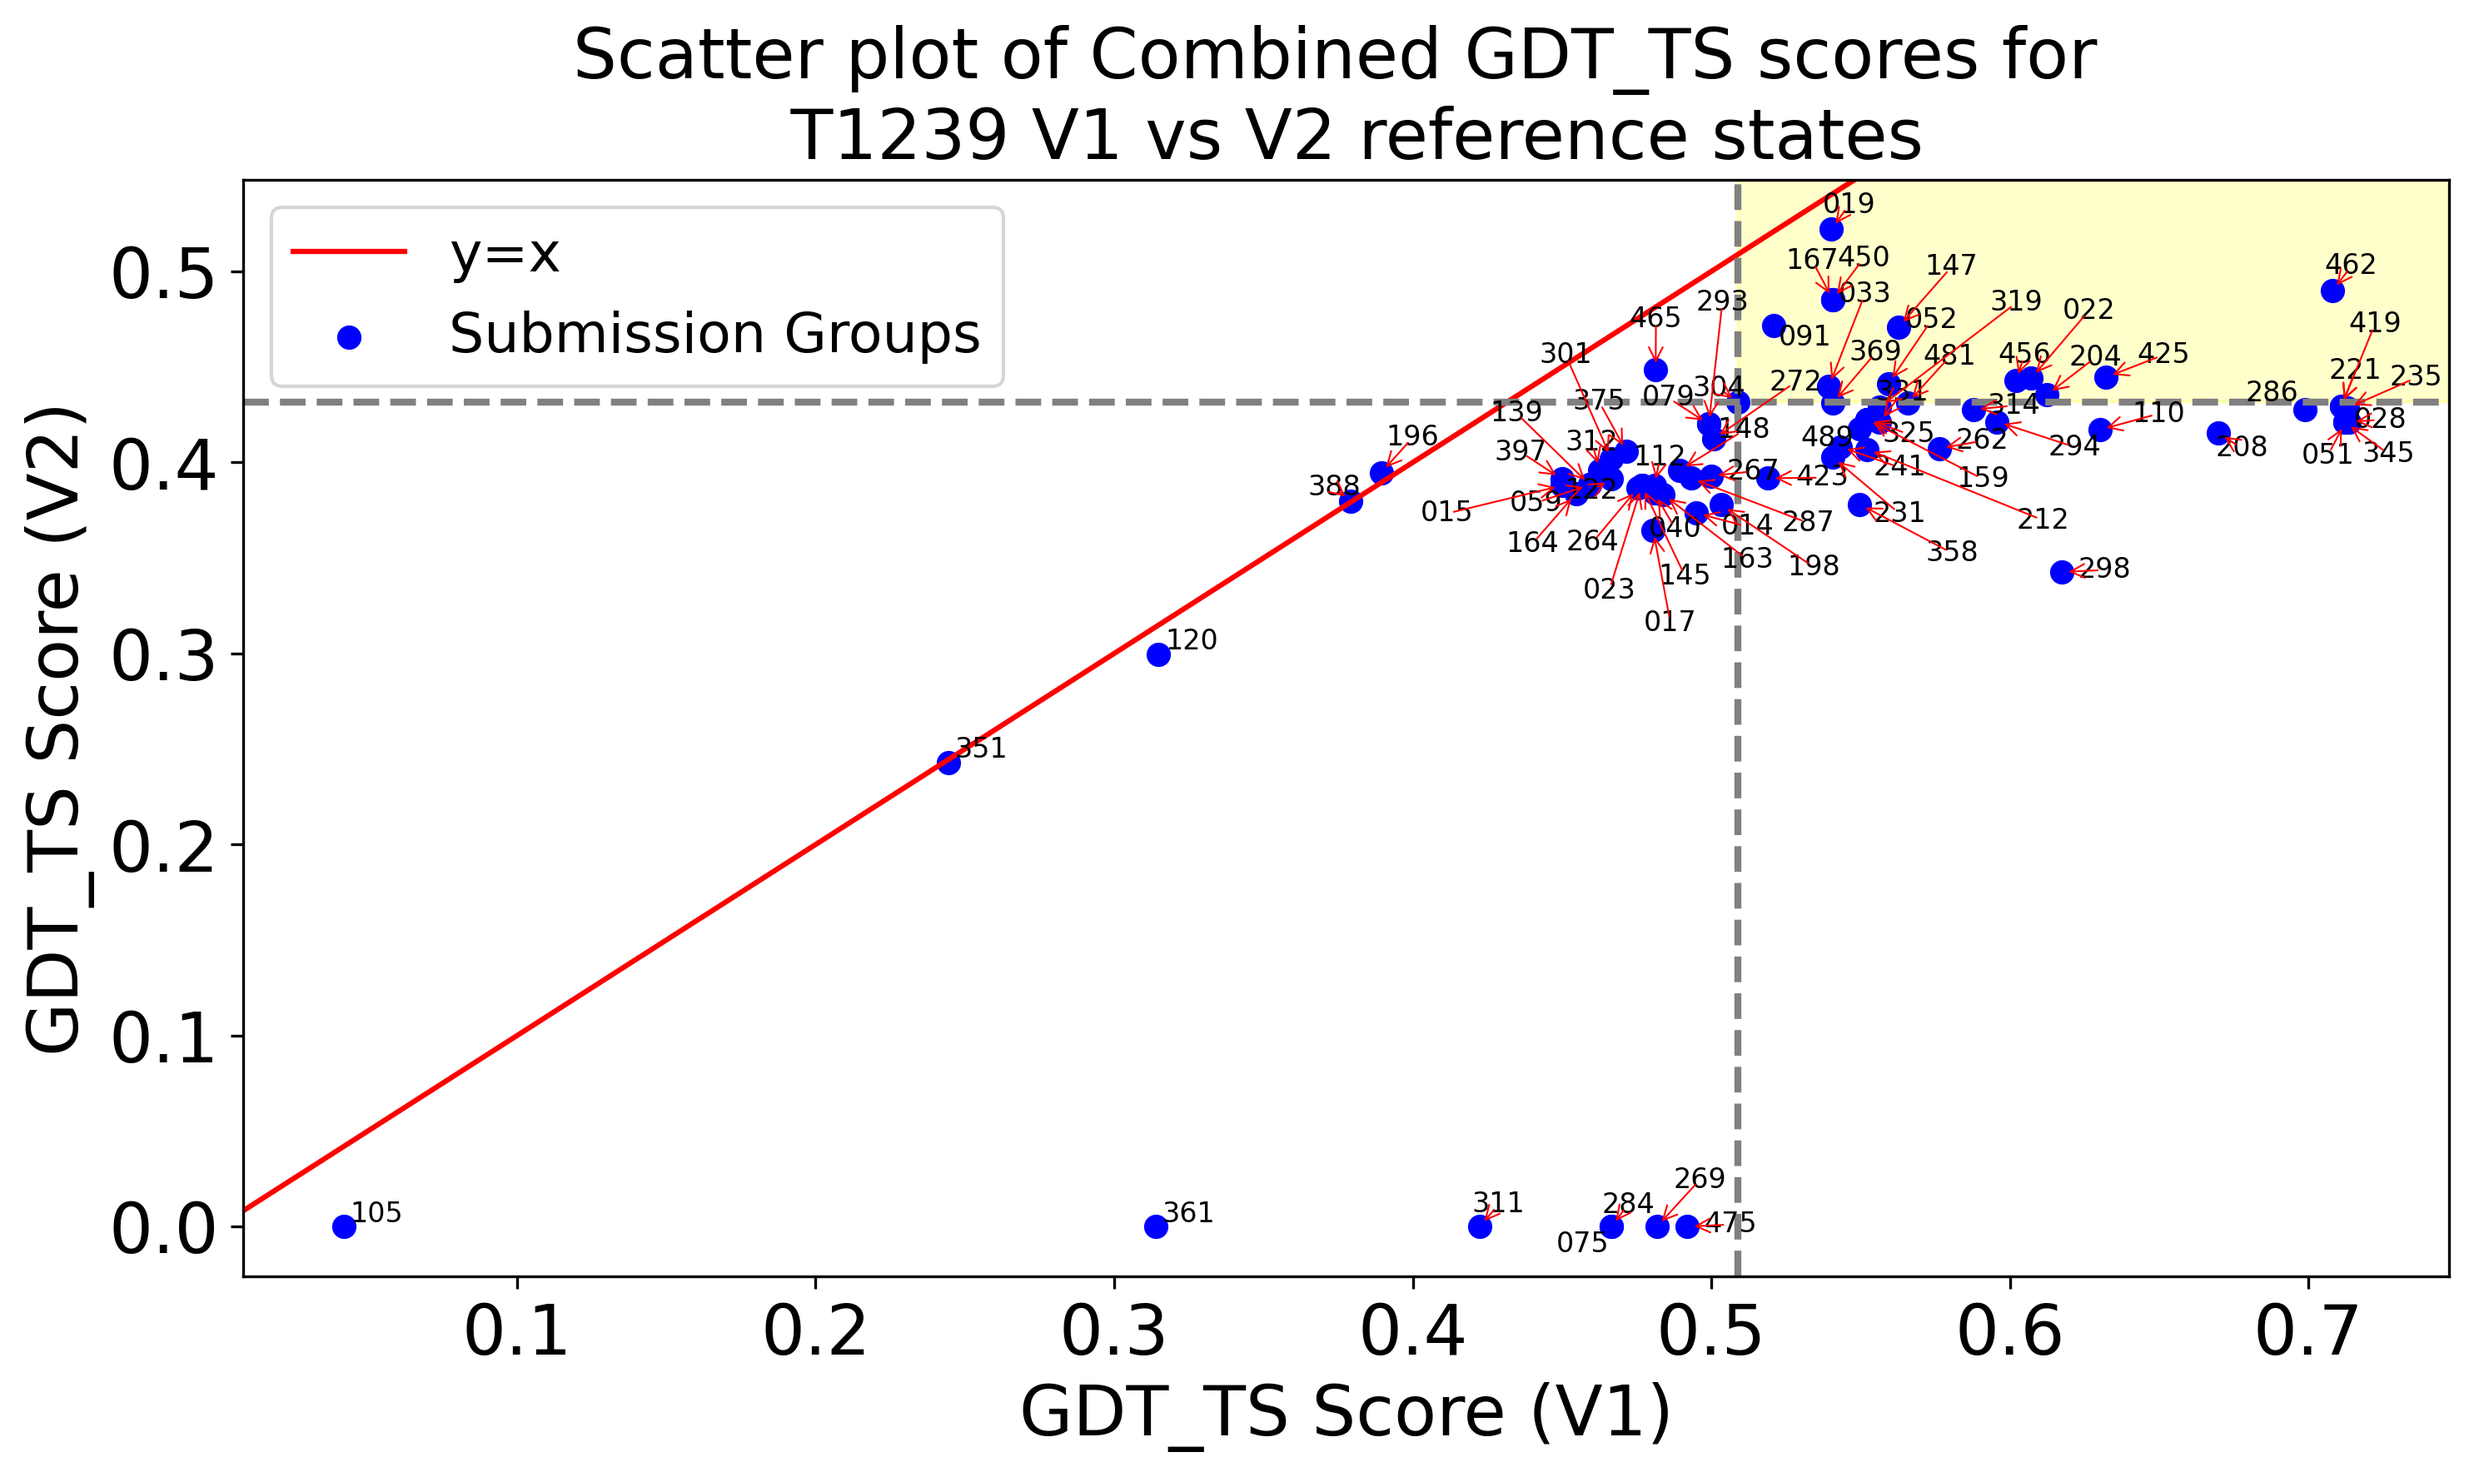
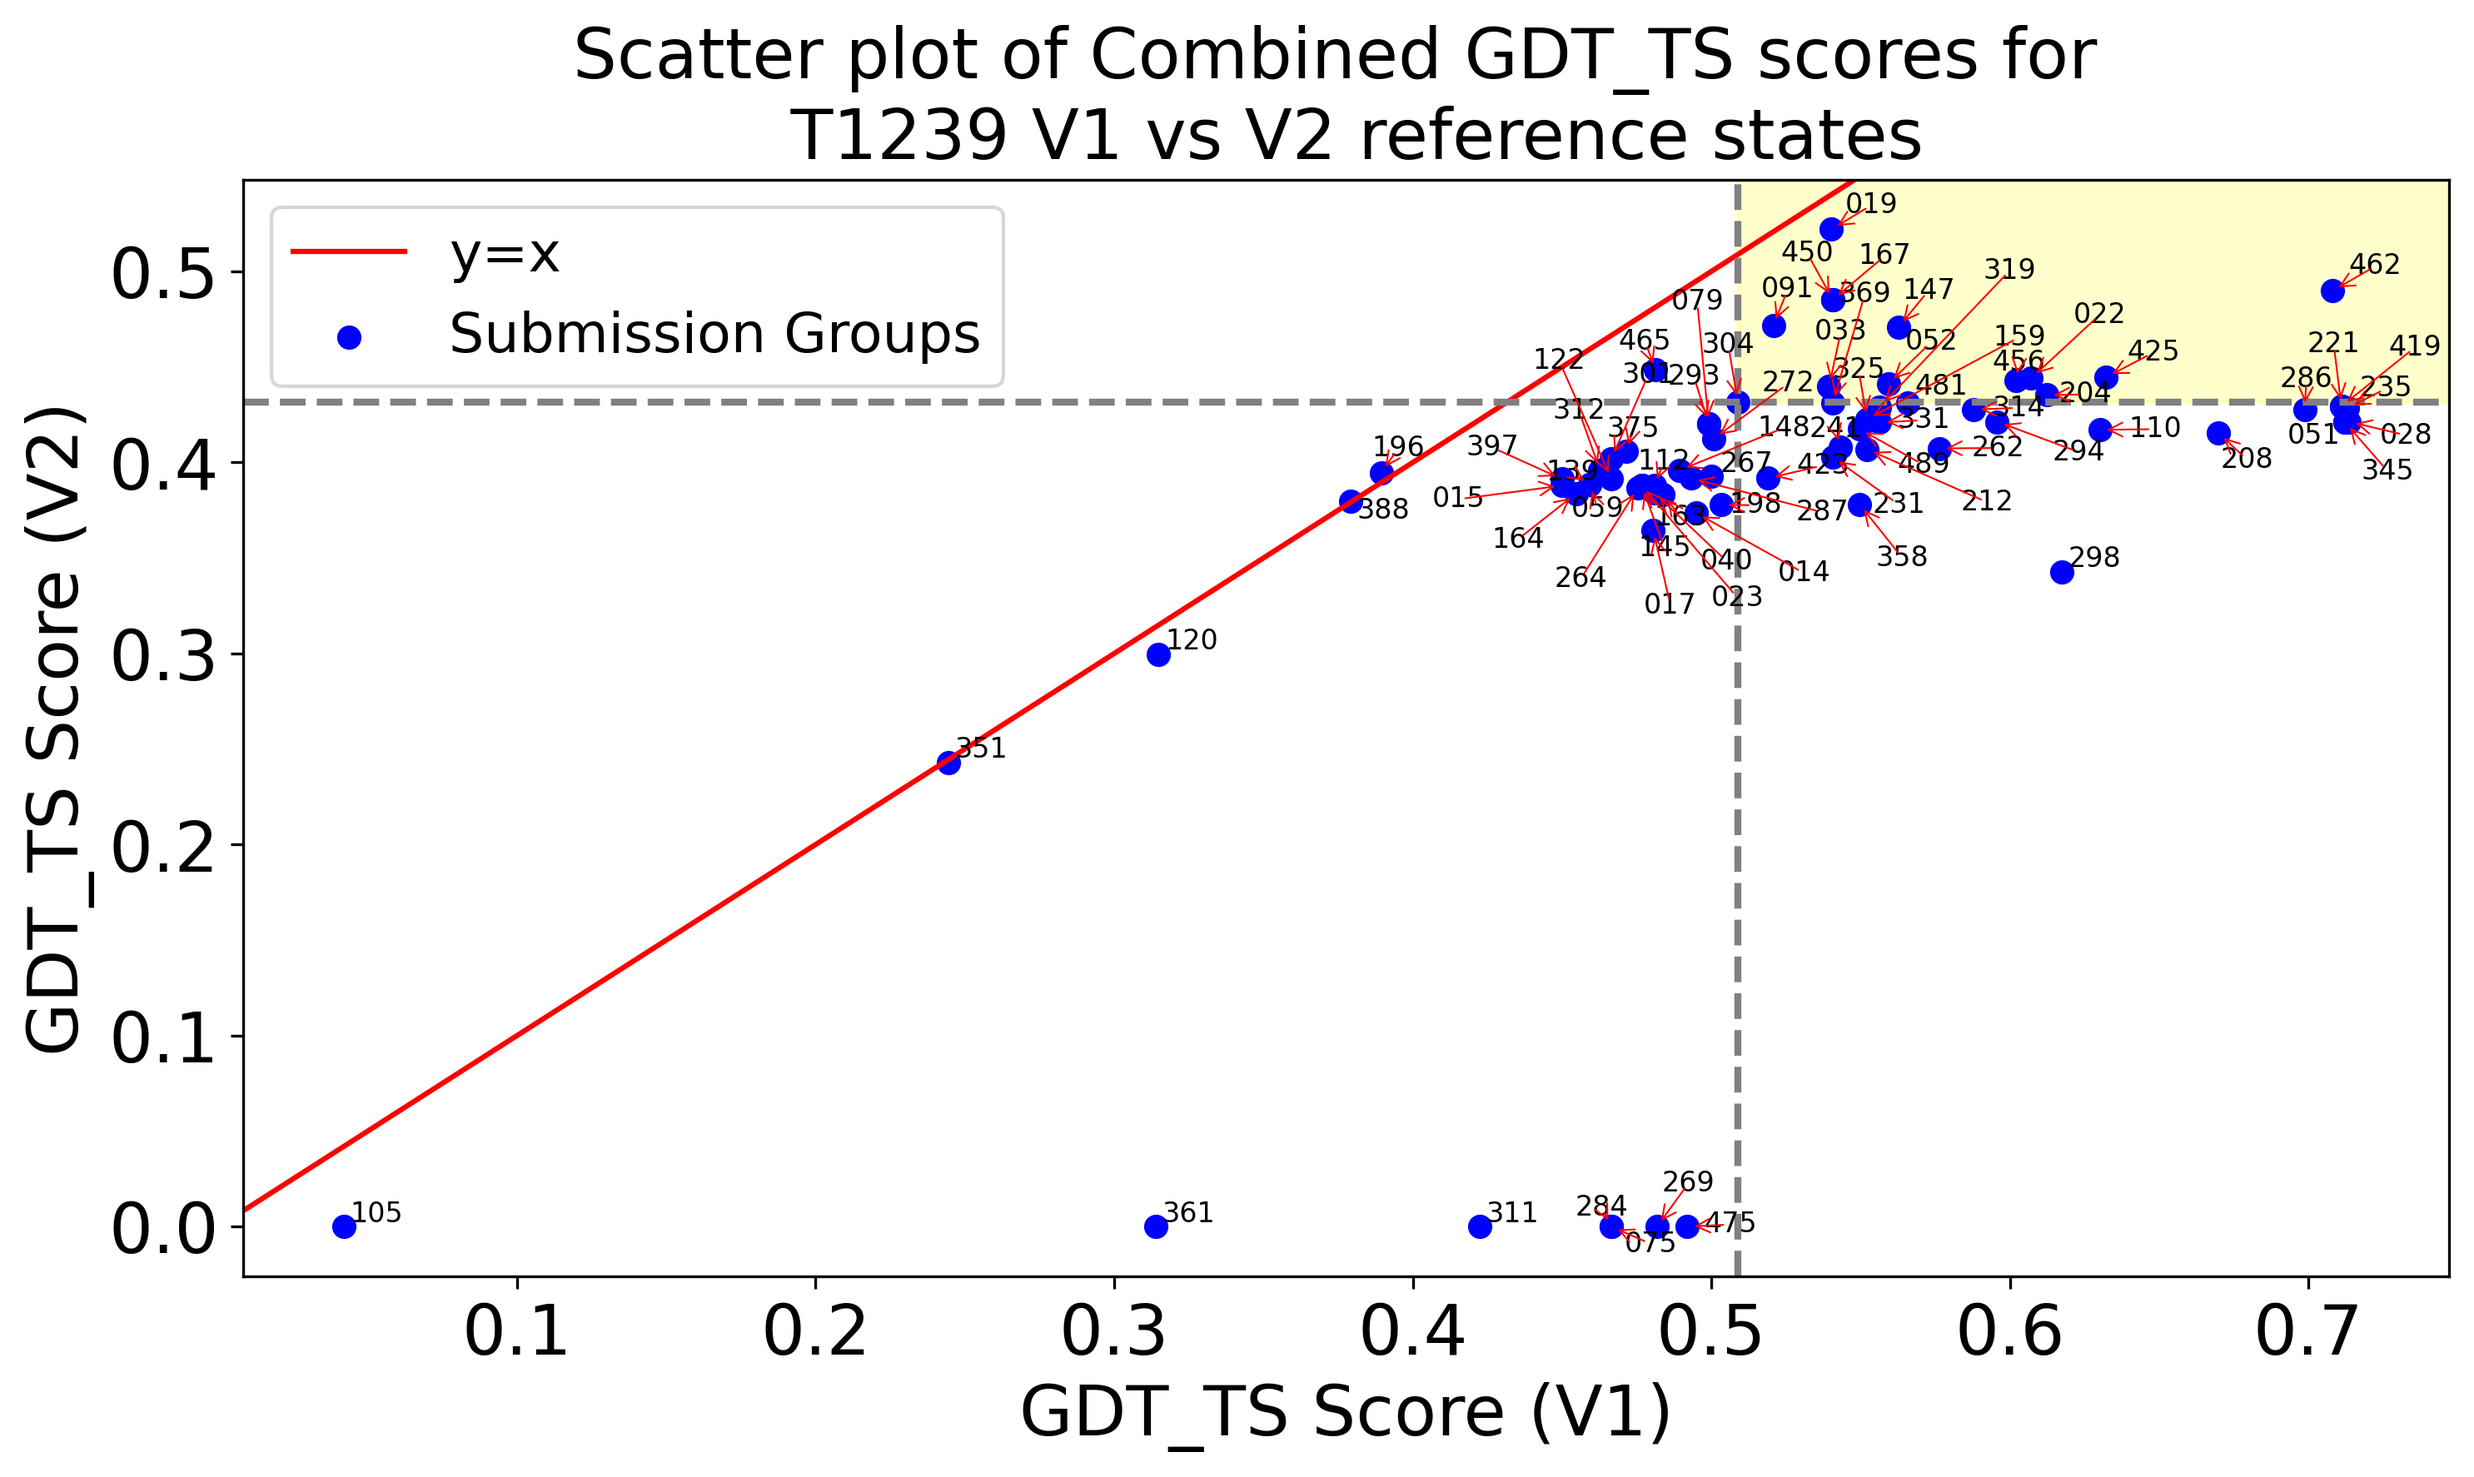
fixed minor bugs in plotsformanuscript

diff --git a/MakePlotsForManuscript.py b/MakePlotsForManuscript.py
@@ -31,8 +31,8 @@ def Figure2_B_C():
     combined_df = combined_df.sort_values(by='Combined_Score', ascending=False)
     create_stacked_bar_two(combined_df, 'M1228', 'TMscore', horizontal=False, \
         star=True, outfile_suffix = "_horizontal_star", save_path = "./PLOTS_MANUSCRIPT/Figure2_B.png")
-    create_stacked_bar_two(combined_df, 'M1228', 'TMscore', horizontal=False, \
-        star=True, outfile_suffix = "_horizontal_star", save_path = "./PLOTS_MANUSCRIPT/FigS3_A1.png")
+    create_stacked_bar_two(combined_df, 'M1228', 'TMscore', horizontal=True, \
+        star=False, outfile_suffix = "_horizontal_star", save_path = "./PLOTS_MANUSCRIPT/FigS3_A1.png")
 
     kwargs = {}
     kwargs['text_fontsize'] = 16
@@ -62,7 +62,15 @@ def Figure4_C():
     # horizontal
     v1_df = get_v1_ref_df_two('T1228', 'GDT_TS')
     v2_df = get_v2_ref_df_two('T1228', 'GDT_TS')
+    # Convert GDT_TS scores to percentage
+    
     combined_df = get_best_fit_two('T1228', v1_df, v2_df, 'GDT_TS')
+    
+    if max(combined_df['Best_v1_ref']) <= 1:
+        combined_df['Best_v1_ref'] = combined_df['Best_v1_ref'] * 100
+    if max(combined_df['Best_v2_ref']) <= 1:
+        combined_df['Best_v2_ref'] = combined_df['Best_v2_ref'] * 100
+
     combined_df = combined_df.sort_values(by='Combined_Score', ascending=False)
     create_stacked_bar_two(combined_df, 'T1228', 'GDT_TS', horizontal=True, \
         star=True, outfile_suffix = "_vertical_star", save_path = "./PLOTS_MANUSCRIPT/Figure4_C.png")
@@ -90,6 +98,7 @@ def Figure5_C():
     v1_df = get_v1_ref_df_two('M1239', 'TMscore')
     v2_df = get_v2_ref_df_two('M1239', 'TMscore')
     combined_df = get_best_fit_two('M1239', v1_df, v2_df, 'TMscore')
+
     combined_df = combined_df.sort_values(by='Combined_Score', ascending=False)
    
     kwargs = {}
@@ -113,6 +122,12 @@ def Figure5_C():
     v1_df = get_v1_ref_df_two('T1239', 'GDT_TS')
     v2_df = get_v2_ref_df_two('T1239', 'GDT_TS')
     combined_df = get_best_fit_two('T1239', v1_df, v2_df, 'GDT_TS')
+
+    if max(combined_df['Best_v1_ref']) <= 1:
+        combined_df['Best_v1_ref'] = combined_df['Best_v1_ref'] * 100
+    if max(combined_df['Best_v2_ref']) <= 1:
+        combined_df['Best_v2_ref'] = combined_df['Best_v2_ref'] * 100
+        
     combined_df = combined_df.sort_values(by='Combined_Score', ascending=False)
    
     kwargs = {}
@@ -192,7 +207,14 @@ def FigS3():
     # M1228 GDT_TS and GlobDockQ
     v1_df = get_v1_ref_df_two('M1228', 'GDT_TS')
     v2_df = get_v2_ref_df_two('M1228', 'GDT_TS')
+    
     combined_df = get_best_fit_two('M1228', v1_df, v2_df, 'GDT_TS')
+    # Convert GDT_TS scores to percentage
+    if max(combined_df['Best_v1_ref']) <= 1:
+        combined_df['Best_v1_ref'] = combined_df['Best_v1_ref'] * 100
+    if max(combined_df['Best_v2_ref']) <= 1:
+        combined_df['Best_v2_ref'] = combined_df['Best_v2_ref'] * 100
+
     combined_df = combined_df.sort_values(by='Combined_Score', ascending=False)
     create_stacked_bar_two(combined_df, 'M1228', 'GDT_TS', horizontal=False, \
         star=True, outfile_suffix = "_horizontal_star", save_path = "./PLOTS_MANUSCRIPT/FigS3_B.png")
